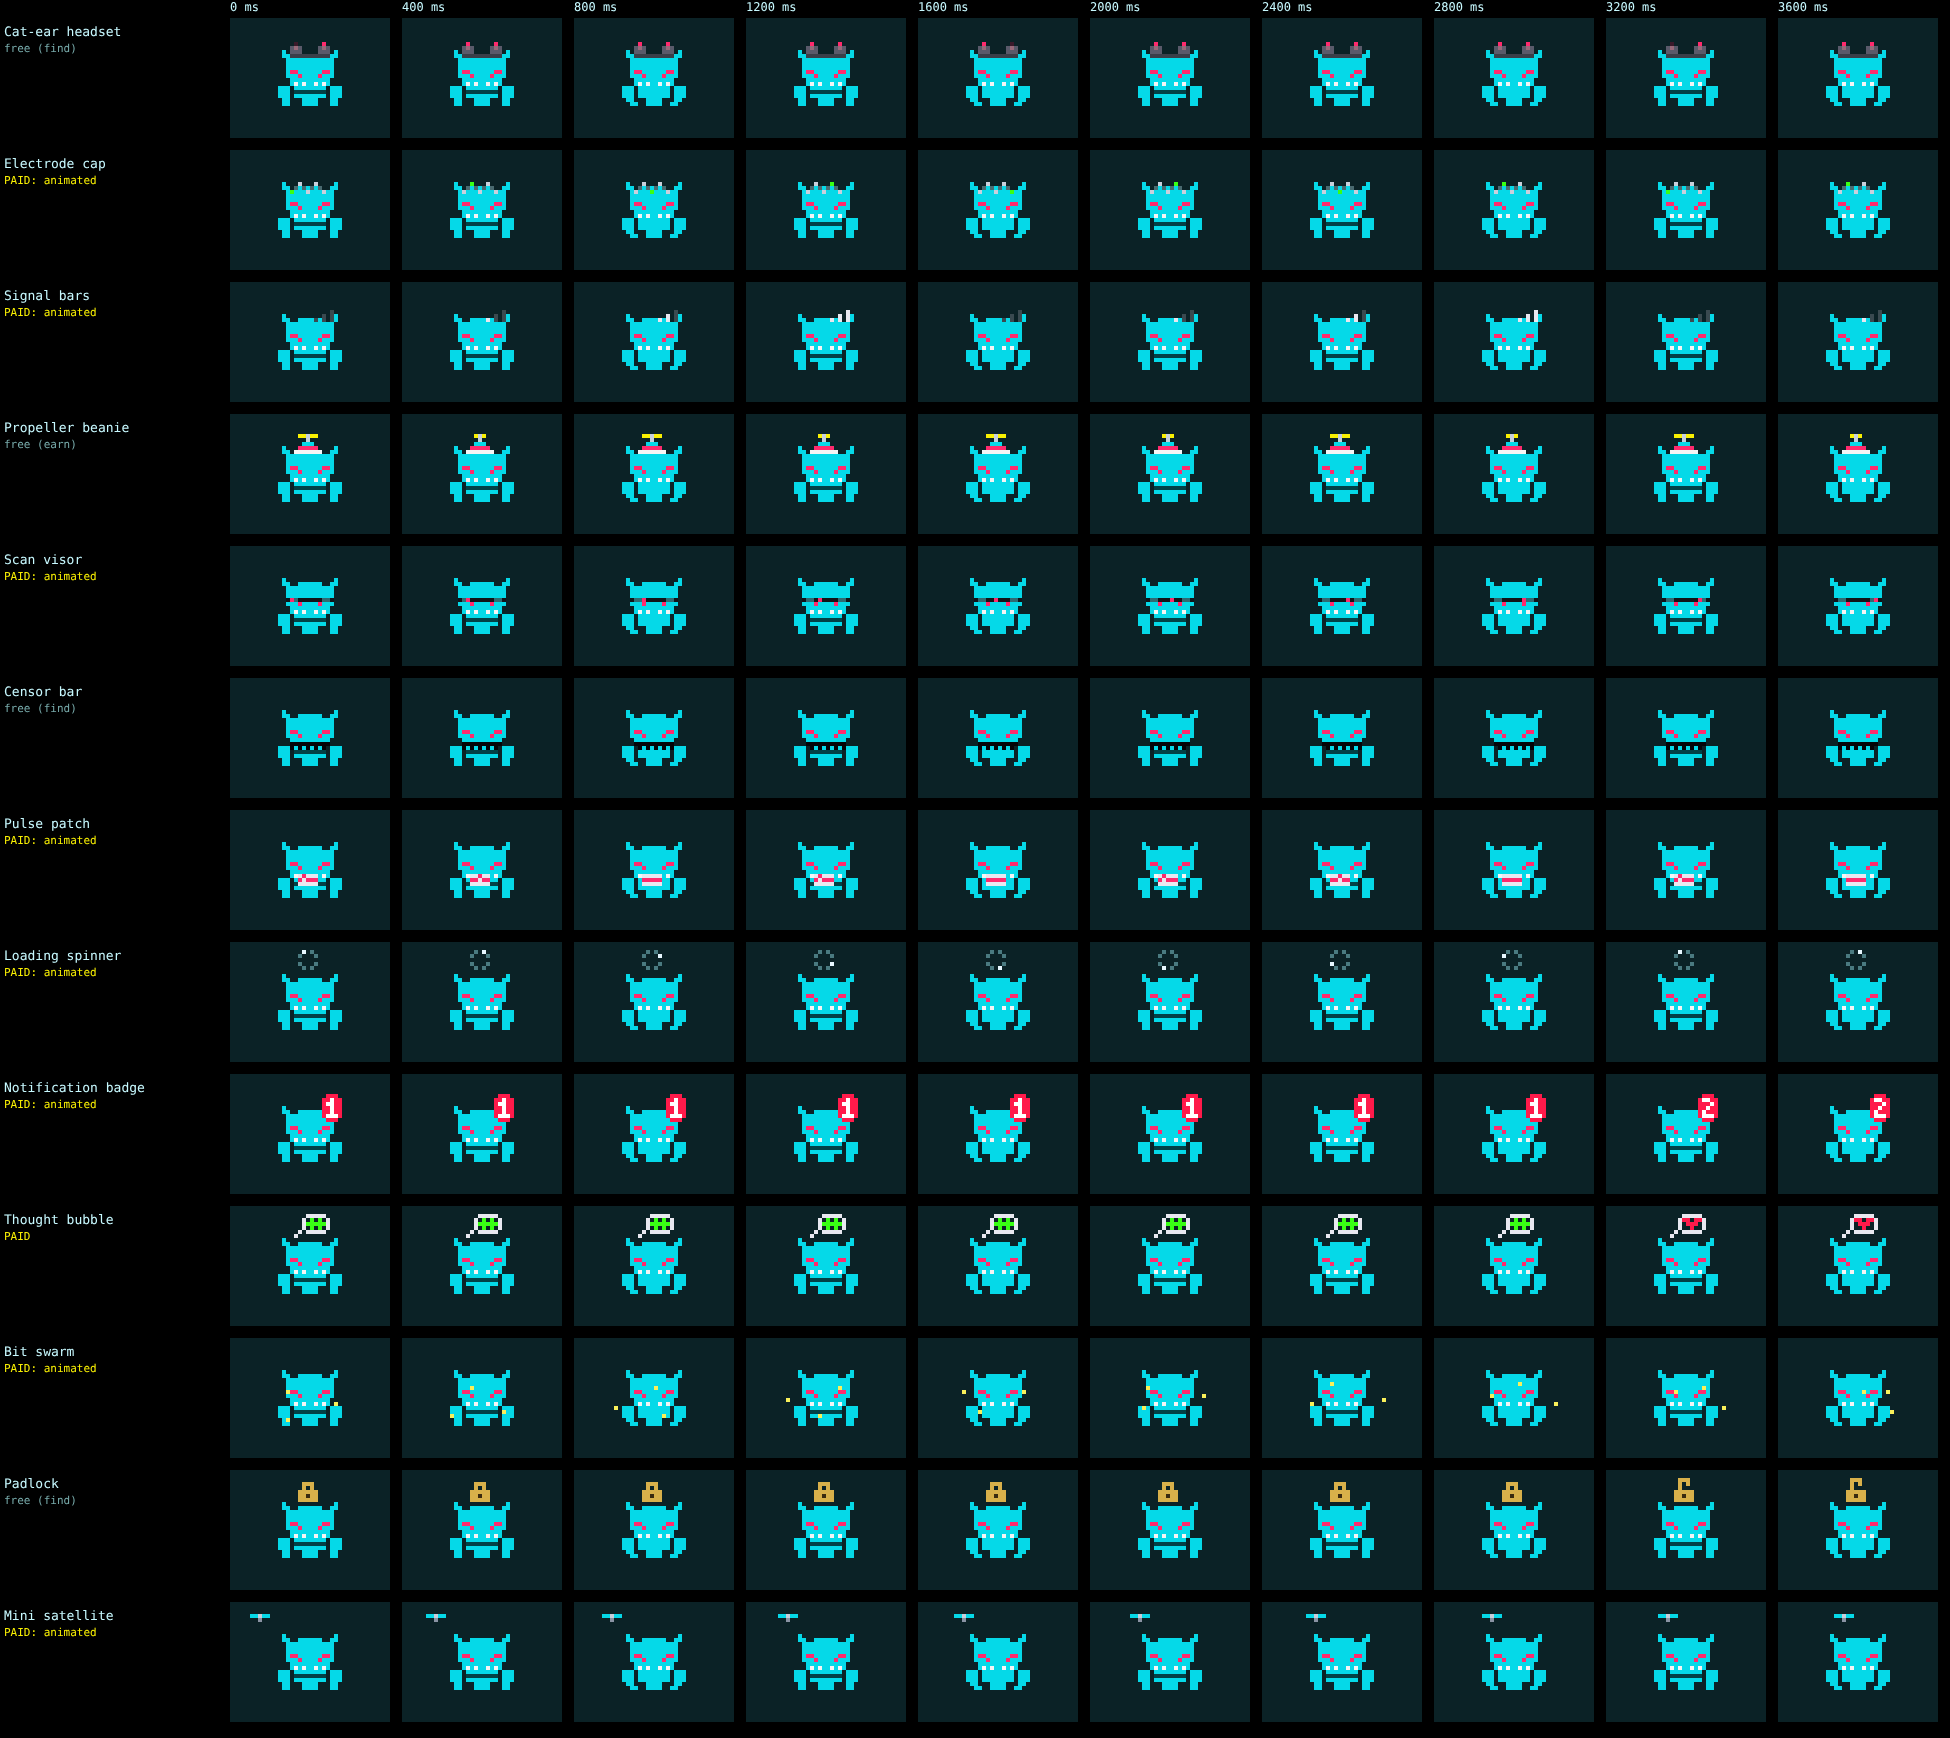
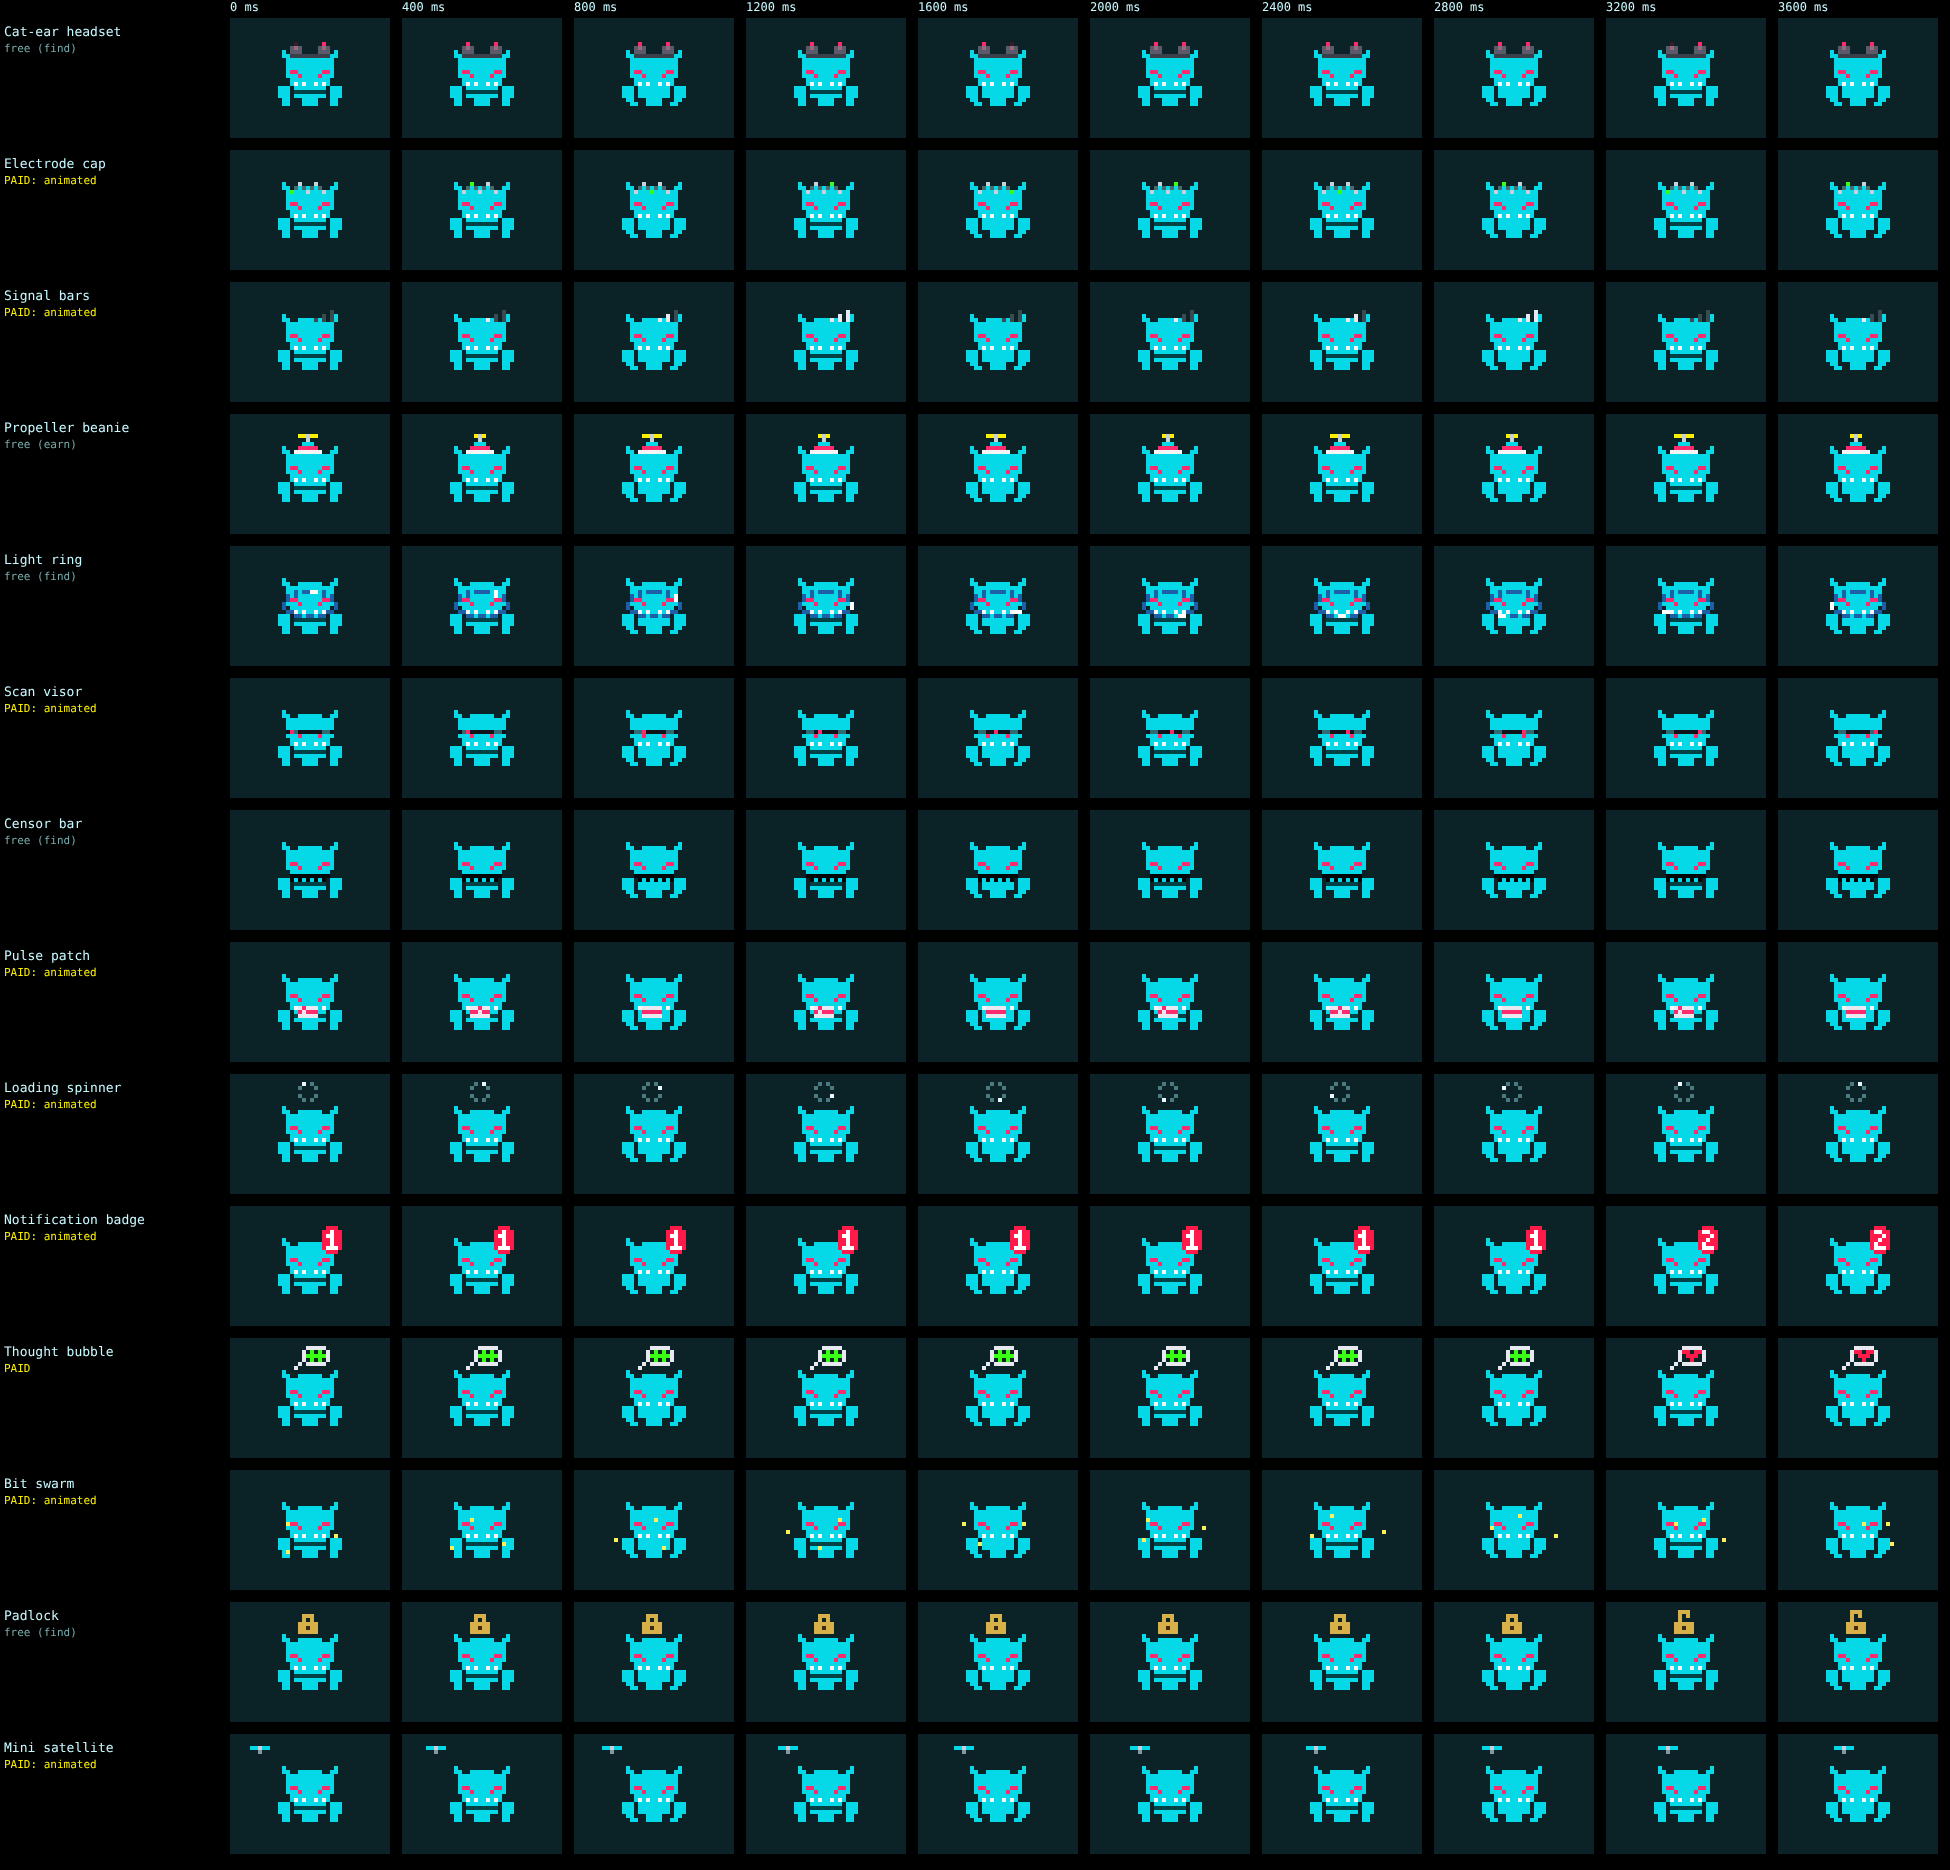
Style ideas: the Laughing Man ring as the Light ring, on every egg
Redrawn from its description (the 2026-10-07 drawing for Blank was never
committed): a ring of deep blue dashes round the face with one white dash
travelling a step every 400 ms. The review page gains Blank as a column and
a per-form motion view; tests now expect all 26 wearable ideas.

Claude-Session: https://claude.ai/code/session_01Cs8Tn62A5tSs3mb1RKkHnQ

diff --git a/prototype/netling2/accessory-ideas.js b/prototype/netling2/accessory-ideas.js
@@ -1,7 +1,8 @@
-// First drafts of the 2.0 style ideas' art (docs/NETLING_2_ACCESSORY_IDEAS.md): 25 wearables, 10 props and 5 crests, drawn as 1.0's are.
+// First drafts of the 2.0 style ideas' art (docs/NETLING_2_ACCESSORY_IDEAS.md): 26 wearables, 10 props and 5 crests, drawn as 1.0's are.
 // Nothing here is decided or shipped, and src/ is untouched: registerIdeas() adds the drafts to 1.0's tables at run time, so the real
 // placeWorn (anchors, the blend swap, orbiting floaters last) and drawProp place them, the way register.js adds the prototype forms.
-// The Laughing Man ring is left out: it was prototyped already (NETLING_2_SPRITES_HISTORY.md, "Blank's elder in motion").
+// The Laughing Man ring is here as the Light ring, redrawn from its description: the version rendered as one of Blank's elder options
+// (NETLING_2_SPRITES_HISTORY.md, "Blank's elder in motion") was never committed, and was only ever seen on the Wetware hidden line.
 //
 // Wearables: draw(px, a, frame, time, colors) over the authored anchors, as src/accessories.js. Props: draw(px, frame, time, extra) in
 // prop-local coordinates, standing on their bottom row, size [w, h]. Crests: 9x9, '#' lit, as 1.0's cosmetics.js.
@@ -183,6 +184,21 @@ export const IDEA_WEARABLES = [
   },
 
   // Face
+  {
+    id: 'laughingring',
+    name: 'Light ring',
+    slot: 'face',
+    paid: 'free (find)',
+    draw: (px, a, frame, time = 0) => {
+      // A ring of dashes circling the face (2 cells lit, 1 clear), the dashes a deep blue (a pale one was swapped to white on bright bodies by the blend check, and the travelling dash vanished), one dash bright white and
+      // travelling round clockwise a dash every 400 ms (about 3 to 4 s a lap). Redrawn from the doc's description: the 2026-10-07
+      // version (one of Blank's elder options) was never committed. Kept findable whole, motion included, as the doc says.
+      ringDashes(a).forEach((dash, i, all) => {
+        const c = i === step(time, 400) % all.length ? '#ffffff' : '#1f5fa8';
+        for (const [x, y] of dash) px(x, y, c);
+      });
+    },
+  },
   {
     id: 'scanvisor',
     name: 'Scan visor',
@@ -443,6 +459,26 @@ export const IDEA_WEARABLES = [
   },
 ];
 
+// The Light ring's dashes: the cells of an ellipse a cell outside the head's sides and from two rows over the eyes to a row under
+// the mouth, in clockwise order from the top, cut into dashes of 2 cells with 1 clear between.
+function ringDashes(a) {
+  const cx = (a.headLeft + a.headRight) / 2;
+  const top = a.eyeRow - 2;
+  const bottom = a.mouthRow + 1;
+  const cy = (top + bottom) / 2;
+  const rx = (a.headRight - a.headLeft) / 2 + 1;
+  const ry = (bottom - top) / 2;
+  const cells = [];
+  for (let i = 0; i < 720; i++) {
+    const t = (i / 720) * Math.PI * 2 - Math.PI / 2;
+    const x = Math.round(cx + Math.cos(t) * rx);
+    const y = Math.round(cy + Math.sin(t) * ry);
+    if (!cells.some(([u, v]) => u === x && v === y)) cells.push([x, y]);
+  }
+  const dashes = [];
+  for (let i = 0; i + 1 < cells.length; i += 3) dashes.push(cells.slice(i, i + 2));
+  return dashes;
+}
 function heatsink(px, a, hot) {
   const x = a.bodyRight + 1;
   for (const dy of [-1, 1, 3]) {

diff --git a/prototype/netling2/accessory-ideas-preview.html b/prototype/netling2/accessory-ideas-preview.html
@@ -6,8 +6,8 @@
 <script type="module">
 // Review renders for the style ideas' art (accessory-ideas.js; docs/NETLING_2_ACCESSORY_IDEAS.md): every LCD is the 2.0 renderer's
 // (render.js composeLCD), idle off so only the item moves. Sections by the hash (scale=n, t=ms freezes the clock for a screenshot):
-//   #sec=wear     every wearable entry (free and paid side by side for split and paid ideas) on five forms, one per egg plus a baby
-//   #sec=motion   the moving wearables on one form, one column per 400 ms step
+//   #sec=wear     every wearable entry (free and paid side by side for split and paid ideas) on six forms, one per egg plus a baby and Blank (Wetware's hidden elder, with its motion layer)
+//   #sec=motion   the moving wearables on one form, one column per 400 ms step (form=n, only=id)
 //   #sec=props    every prop entry beside one form, and the moving ones per step
 //   #sec=crests   the five crests at 9x9, beside 1.0's Helix for scale
 import './ready.js';
@@ -31,6 +31,7 @@ const FORMS = [
   { form: I.ironAdultBreachStreet, egg: 'iron' },
   { form: P.programAdultTuneCorp, egg: 'program' },
   { form: W.wetwareElderFeastStreet, egg: 'wetware' },
+  { form: W.wetwareElderHidden, egg: 'wetware' }, // Blank, the only form the ring was seen on before
   { form: R.rogueAdultDodge, egg: 'rogue' },
 ];
 const tag = (e) => (e.version === 'only' ? e.paid : e.version === 'free' ? (e.paid === 'split' ? 'FREE: still (reduced-motion frame)' : 'FREE: plainer still') : e.paid === 'split' ? 'PAID: animated' : 'PAID');
@@ -77,8 +78,9 @@ if (SEC === 'wear') {
   const from = Number(hash.get('from') ?? 0), n = Number(hash.get('n') ?? rows.length);
   sheet(rows.slice(from, from + n), FORMS, (e) => [`${e.name.replace(/ \((free|paid)\)$/, '')} [${e.slot}]`, tag(e)], (e, f, t) => composeLCD({ ...f, idle: 'none', worn: [{ id: e.id }] }, t + 1), (f) => f.form.id);
 } else if (SEC === 'motion') {
-  const rows = WEARABLE_ENTRIES.filter((e) => e.version !== 'free' && moving(e, wearDraw));
-  const f = FORMS[1];
+  const f = FORMS[Number(hash.get('form') ?? 1)]; // form=n picks a column of the wear section (5 is Blank)
+  const only = hash.get('only'); // only=id shows one wearable
+  const rows = WEARABLE_ENTRIES.filter((e) => (only ? e.id === only : e.version !== 'free' && moving(e, wearDraw)));
   const steps = Array.from({ length: 10 }, (_, i) => i);
   const ms = Number(hash.get('ms') ?? 400);
   sheet(rows, steps, (e) => [e.name.replace(/ \(paid\)$/, ''), e.version === 'paid' ? tag(e) : e.paid], (e, s) => composeLCD({ ...f, idle: 'none', worn: [{ id: e.id }] }, s * ms + 1), (s) => `${s * ms} ms`);

diff --git a/prototype/netling2/accessory-ideas.test.js b/prototype/netling2/accessory-ideas.test.js
@@ -32,13 +32,13 @@ const pixels = (draw, ...args) => {
 const wearPic = (e, sprite, time) => pixels((px, a, f, t) => e.draw(px, a, f, t, e.colors?.map(([, d]) => d)), anchorsFor(sprite), Math.floor(time / 500) % 2, time);
 const propPic = (e, time) => pixels((px, f, t) => e.draw(px, f, t, null), Math.floor(time / 500) % 2, time);
 
-test('every wearable, prop and crest idea in the doc has art, with the doc\'s Paid? value (the Laughing Man ring was prototyped already)', () => {
+test('every wearable, prop and crest idea in the doc has art, with the doc\'s Paid? value (the Laughing Man ring as the Light ring)', () => {
   const wear = ['Head', 'Face', 'Body', 'Float'].flatMap((h) => rowsOf(`${h} (`));
-  const want = [...wear.filter(([id]) => id !== 'laughingring'), ...rowsOf('Props (')];
+  const want = [...wear, ...rowsOf('Props (')];
   const have = new Map([...IDEA_WEARABLES, ...IDEA_PROPS].map((x) => [x.id, x.paid]));
-  assert.equal(want.length, 35);
+  assert.equal(want.length, 36);
   for (const [id, paid] of want) assert.equal(have.get(id), paid, id);
-  assert.equal(have.size, 35);
+  assert.equal(have.size, 36);
   const crests = doc.split('## Crests')[1].split('\n## ')[0];
   const crestIds = [...crests.matchAll(/\(`(\w+)`\)/g)].map((m) => m[1]);
   assert.deepEqual(IDEA_CRESTS.map((c) => c.id), crestIds);
@@ -113,7 +113,7 @@ test('nothing toggles faster than the flash rule: every cell holds each colour a
 });
 
 test('the still ideas do not move between the A and B frames or over time', () => {
-  const moving = new Set(['catears', 'beanie', 'censorbar', 'padlock', 'jammer', 'petridish']);
+  const moving = new Set(['laughingring', 'catears', 'beanie', 'censorbar', 'padlock', 'jammer', 'petridish']);
   const sprite = SETS.program.programAdultTuneCorp.a;
   for (const e of WEAR.filter((x) => x.version !== 'paid' && !moving.has(x.base ?? x.id))) {
     const pics = new Set([0, 500, 1300, 9000].map((t) => wearPic(e, sprite, t)));

diff --git a/docs/NETLING_2_ACCESSORY_IDEAS.md b/docs/NETLING_2_ACCESSORY_IDEAS.md
@@ -202,10 +202,11 @@ Every table above has a **Paid?** column. There is no monetization in 1.0 or in 
 
 ## Art drafts (2026-10-12)
 
-First drafts of every wearable (25; the Laughing Man ring was prototyped already), prop (10) and crest (5) above, in `prototype/netling2/accessory-ideas.js`. Shells, tints, effects, sounds, music and labels are not drawn. Wearables use 1.0's `draw(px, anchors, frame, time)`, props `draw(px, frame, time, extra)` with a size, crests 9x9; `registerIdeas()` adds them to 1.0's tables at run time (prototype only, `src/` untouched, `source: 'earned'` so they never enter drops, shops or visitor gifts), so the real `placeWorn` and `drawProp` place them through the 2.0 renderer.
+First drafts of every wearable (26), prop (10) and crest (5) above, in `prototype/netling2/accessory-ideas.js`. Shells, tints, effects, sounds, music and labels are not drawn. Wearables use 1.0's `draw(px, anchors, frame, time)`, props `draw(px, frame, time, extra)` with a size, crests 9x9; `registerIdeas()` adds them to 1.0's tables at run time (prototype only, `src/` untouched, `source: 'earned'` so they never enter drops, shops or visitor gifts), so the real `placeWorn` and `drawProp` place them through the 2.0 renderer.
 
+- **The Laughing Man ring, as the Light ring** (maintainer, 2026-10-12: shown under a different name; id still `laughingring`, nothing reserved). The 2026-10-07 drawing for Blank was never committed, so it is redrawn from the description above: an ellipse of dashes (2 cells lit, 1 clear) from a cell outside the head's sides and two rows over the eyes to a row under the mouth, with one white dash travelling clockwise a dash every 400 ms (about 3.6 s a lap on an adult). The dashes are deep blue (`#1f5fa8`): a pale highlight colour was swapped to white on bright bodies by `placeWorn`'s blend check, and the travelling dash disappeared. Before this it had only been seen on the Wetware hidden line; the review page now shows it on all five columns plus Blank (`wetwareElderHidden`, a new column), and `style-ideas-light-ring-blank.png` shows it over Blank's motion layer step by step.
 - **Free and paid versions.** A **split** idea draws as its animated (paid) version under its id and as a free version (id + `.free`) that is exactly one frame of the animation, the reduced-motion picture. A **paid** idea has no free version in the tables above, so its free comparison is a plainer still drawing (the Thought bubble empty; the Desk terminal without stand or cursor; the Noodle cup without steam or band; the Lava lamp with one resting blob; the arcade cabinet with a dark screen). The Heat sink is drawn plain, with its Overclock glow as a separate review-only entry.
-- **Review page:** `prototype/netling2/accessory-ideas-preview.html` (`#sec=wear`, `motion`, `props`, `crests`; `scale=n`, `t=ms` to freeze), served by `npm run serve`. Screenshots: `docs/netling2-prototypes/shots/style-ideas-wearables.png`, `style-ideas-wearables-motion.png`, `style-ideas-props.png`, `style-ideas-crests.png`.
+- **Review page:** `prototype/netling2/accessory-ideas-preview.html` (`#sec=wear`, `motion`, `props`, `crests`; `scale=n`, `t=ms` to freeze), served by `npm run serve`. Screenshots: `docs/netling2-prototypes/shots/style-ideas-wearables.png`, `style-ideas-light-ring-blank.png`, `style-ideas-wearables-motion.png`, `style-ideas-props.png`, `style-ideas-crests.png`.
 - **Tests:** `accessory-ideas.test.js` (8, in `npm run proto:test`): every idea in these tables has art with the table's Paid? value; a split's free version is a frame of its animation and a paid one's is not; nothing leaves the top of the 2.0 screen on any of the 76 forms at the highest each frame stands in 1.0's idles; every cell holds each colour at least `FLASH_TOGGLE_MS`; the still ideas do not move; props stay inside their size; crests are 9x9.
 - **Not done:** the blend check against every palette (only palette 0 was looked at; `placeWorn` swaps fixed colours that blend into the body, as for 1.0's), the room rules when worn with other items (1.0's `ROOM` table is internal to `src/accessories.js`, so body ideas do not slide past face items and float ideas do not rise over hats), the Lava lamp's floor glow with the lights off (1.0's `drawProp` dims every prop), the four-egg review render beyond the five forms on the page, and any device check. The overlaps the next list names were looked at in screenshots only.
 - **Judgement calls to review:** War paint is dark by default (the doc's contrasting colour; pink merged with the default eyes); the Notification badge is 5x7 to fit a readable digit; the Thought bubble's chip, heart and skull are 5x3; the Bit swarm and Mini satellite step a cell every 400 ms (1.0's Drone moves continuously) so the flash test holds.
